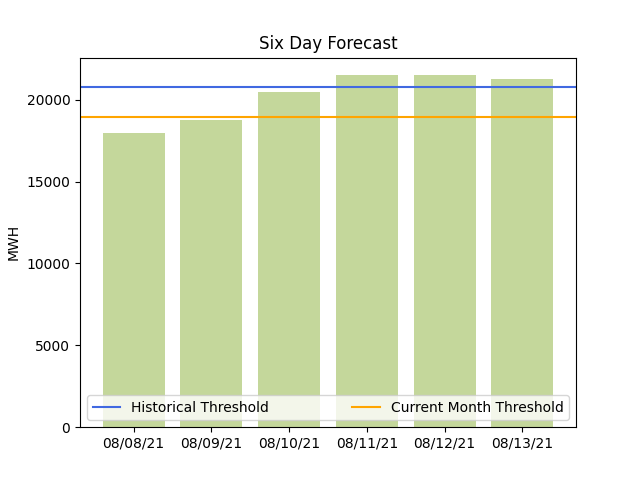
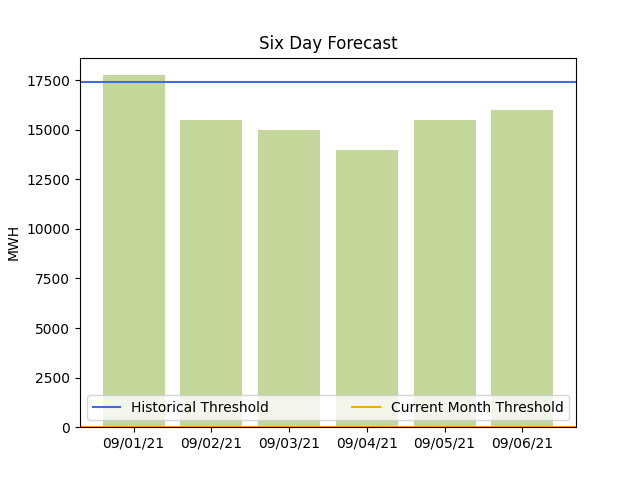
most recent changes

diff --git a/threeDay/threeDayForecast.py b/threeDay/threeDayForecast.py
@@ -12,6 +12,7 @@ from mongoConnect import get_monthly_historical_data
 
 requests.packages.urllib3.disable_warnings(InsecureRequestWarning)
 
+
 def retrieve_data():
     three_day_api = (
         "https://www.iso-ne.com/ws/wsclient?_ns_requestType=threedayforecast"
@@ -23,6 +24,7 @@ def retrieve_data():
     )
     json_data = response.json()
     return json_data[0]["data"]
+
 
 def retrieve_actual_data(api_date):
     actual_data_api = "https://webservices.iso-ne.com/api/v1.1/hourlysysload/day/{}/location/32".format(
@@ -38,10 +40,12 @@ def retrieve_actual_data(api_date):
 
     return xml_dict["HourlySystemLoads"]["HourlySystemLoad"]
 
+
 def get_six_day():
     d = datetime.date.today()
     api_date = "{}{:02d}{:02d}".format(d.year, d.month, d.day)
-    six_day_api = "https://webservices.iso-ne.com/api/v1.1/sevendayforecast/day/{}".format(api_date)
+    six_day_api = "https://webservices.iso-ne.com/api/v1.1/sevendayforecast/day/{}".format(
+        api_date)
     response = requests.get(
         six_day_api,
         auth=HTTPBasicAuth("info.rmsolutionss@gmail.com", "JeffKramer1"),
@@ -54,6 +58,8 @@ def get_six_day():
     return [int(parsed_dict[i]["PeakLoadMw"]) for i in range(len(parsed_dict))]
 
 # Foramt the data in a way that each hour of each day displays the correct Mw
+
+
 def parse_data(data):
     days = ["day1", "day2", "day3"]
     graph_data = [[], [], []]
@@ -106,10 +112,6 @@ def format_data(data):
             22,
             23,
             24
-            # 'Hour 01', 'Hour 02', 'Hour 03', 'Hour 04', 'Hour 05', 'Hour 06',
-            # 'Hour 07', 'Hour 08', 'Hour 09', 'Hour 10', 'Hour 11', 'Hour 12',
-            # 'Hour 13', 'Hour 14', 'Hour 15', 'Hour 16', 'Hour 17', 'Hour 18',
-            # 'Hour 19', 'Hour 20', 'Hour 21', 'Hour 22', 'Hour 23', 'Hour 24'
         ],
         index=[days],
     )
@@ -149,13 +151,13 @@ def create_line_chart(df, threshold_1, threshold_2):
             24,
         ]
     )
-    plt.legend(title= "Days", loc= 3)
+    plt.legend(title="Days", loc=3)
     plt.axhline(y=threshold_1, color='red')
     plt.axhline(y=threshold_2, color='black')
     plt.xlabel("Hour End")
     plt.ylabel("MWh")
     plt.title("Three Day Forecast")
-    plt.savefig("./threeDay/figure.png")
+    plt.savefig("figure.png")
     plt.close()
 
 
@@ -182,8 +184,9 @@ def create_pie_chart(data):
     month = month.strftime("%B")
     plt.title(month + "'s Year Historical Peak Hour")
     plt.axis("equal")
-    plt.savefig("./threeDay/figure2.png")
+    plt.savefig("figure2.png")
     plt.close()
+
 
 def create_bar_chart(threshold1, threshold2):
     peak_loads = get_six_day()
@@ -208,11 +211,14 @@ def create_bar_chart(threshold1, threshold2):
     # plt.grid(color='#95a5a6', linestyle='solid', linewidth=1, axis='y')
     plt.title("Six Day Forecast")
     plt.ylabel("MWH")
-    plt.axhline(y=threshold1, color='royalblue', lw=1.5, label="Historical Threshold")
-    plt.axhline(y=threshold2, color='orange', lw=1.5, label="Current Month Threshold")
-    plt.legend(loc='lower left', mode='expand', ncol= 3)
-    plt.savefig("./threeDay/figure3.png")
+    plt.axhline(y=threshold1, color='royalblue',
+                lw=1.5, label="Historical Threshold")
+    plt.axhline(y=threshold2, color='orange', lw=1.5,
+                label="Current Month Threshold")
+    plt.legend(loc='lower left', mode='expand', ncol=3)
+    plt.savefig("figure3.png")
     plt.close()
+
 
 def get_peak_data(data):
 
@@ -243,6 +249,7 @@ def current_month_threshold():
         return 0
 
     return round(max(month_data) * .97)
+
 
 def alert_rating(peak, threshold):
     if threshold == 0:
@@ -280,6 +287,7 @@ def alert_rating(peak, threshold):
 
     return rating, decision, color
 
+
 # sourcery skip: ensure-file-closed
 if __name__ == "__main__":
     data = retrieve_data()
@@ -289,7 +297,6 @@ if __name__ == "__main__":
     open_file = open(file_name, "wb")
     pickle.dump(graph_data[0], open_file)
     open_file.close()
-
 
     table_df = format_data(table_data)
     graph_df = format_data(graph_data)
@@ -301,6 +308,11 @@ if __name__ == "__main__":
     pie_data, threshold = get_monthly_historical_data()
     historical_threshold = np.percentile(threshold, 75)
     monthly_threshold = current_month_threshold()
+
+    if historical_threshold > monthly_threshold:
+        alert_threshold = historical_threshold
+    else:
+        alert_threshold = monthly_threshold
 
     pie_data.sort()
     pie_dict = {i: pie_data.count(i) for i in pie_data}
@@ -317,7 +329,7 @@ if __name__ == "__main__":
     tomorrow = tomorrow.strftime("%m/%d/%y")
     third_day = third_day.strftime("%m/%d/%y")
 
-    rating, decision, color = alert_rating(peak_1, historical_threshold)
+    rating, decision, color = alert_rating(peak_1, alert_threshold)
 
     body = """\
     <html>
@@ -464,6 +476,6 @@ if __name__ == "__main__":
         tomorrow,
         third_day,
         color
-        
+
     )
     doMail.send_mail(body)

diff --git a/threeDay/doMail.py b/threeDay/doMail.py
@@ -4,13 +4,13 @@ from email.mime.text import MIMEText
 from email.mime.multipart import MIMEMultipart
 
 
-
 def send_mail(body):
     message = MIMEMultipart()
     message["Subject"] = "Three Day Forecast"
-    # message["From"] = "leldforecast@gmail.com"
     message["From"] = "leldforecast@gmail.com"
+    # message["From"] = "dev923757@gmail.com"
     message["To"] = "peakalert@lelwd.com"
+    # message["To"] = "dev923757@gmail.com"
 
     body_content = body
     message.attach(MIMEText(body_content, "html"))
@@ -18,21 +18,21 @@ def send_mail(body):
     msgAlternative = MIMEMultipart("alternative")
     message.attach(msgAlternative)
 
-    fp = open("./threeDay/figure.png", "rb")
+    fp = open("figure.png", "rb")
     msgImage = MIMEImage(fp.read())
     fp.close()
 
     msgImage.add_header("Content-ID", "<image1>")
     message.attach(msgImage)
 
-    fp2 = open("./threeDay/figure2.png", "rb")
+    fp2 = open("figure2.png", "rb")
     msgImage2 = MIMEImage(fp2.read())
     fp2.close()
 
     msgImage2.add_header("Content-ID", "<image2>")
     message.attach(msgImage2)
 
-    fp3 = open("./threeDay/figure3.png", "rb")
+    fp3 = open("figure3.png", "rb")
     msgImage3 = MIMEImage(fp3.read())
     fp3.close()
 
@@ -43,8 +43,8 @@ def send_mail(body):
 
     server = SMTP("smtp.gmail.com", 587)
     server.starttls()
-    server.login(message["From"], "Develop123")
-    # server.login(message["From"], "@39Ayerrd")
-    # server.login(message["From"], "Mwpmatt12")
+    # server.login(message["From"], "Develop123")
+    server.login(message["From"], "@39Ayerrd")
+
     server.sendmail(message["From"], message["To"], msg_body)
     server.quit()

diff --git a/alertSystem/realTimeAlert.py b/alertSystem/realTimeAlert.py
@@ -6,8 +6,8 @@ import datetime
 import doAlert
 
 
-
 requests.packages.urllib3.disable_warnings(InsecureRequestWarning)
+
 
 def get_real_time_load():
     real_time_api = "https://webservices.iso-ne.com/api/v1.1/fiveminutesystemload/current"
@@ -22,10 +22,12 @@ def get_real_time_load():
 
     return xml_dict["FiveMinSystemLoad"]["NativeLoad"]
 
+
 def get_forecast_load():
     d = datetime.date.today()
     api_date = "{}{:02d}{:02d}".format(d.year, d.month, d.day)
-    forecast_api = "https://webservices.iso-ne.com/api/v1.1/hourlyloadforecast/day/{}".format(api_date)
+    forecast_api = "https://webservices.iso-ne.com/api/v1.1/hourlyloadforecast/day/{}".format(
+        api_date)
     response = requests.get(
         forecast_api,
         auth=HTTPBasicAuth("info.rmsolutionss@gmail.com", "JeffKramer1"),
@@ -39,13 +41,14 @@ def get_forecast_load():
 
     return xml_dict["HourlyLoadForecasts"]["HourlyLoadForecast"][time]["LoadMw"]
 
+
 def send_alert(real_load, forecasted_load):
     alert = False
-    if real_load - forecasted_load > 0:
+    if real_load - forecasted_load > 1000:
         alert = True
-    
+
     return alert
-    
+
 
 if __name__ == "__main__":
     real_time_load = round(float(get_real_time_load()))
@@ -54,7 +57,7 @@ if __name__ == "__main__":
     alert = send_alert(real_time_load, forecasted_load)
 
     if alert:
-        load_alert =  real_time_load - forecasted_load
+        load_alert = real_time_load - forecasted_load
         body = """\
         <html>
             <head>

diff --git a/alertSystem/doAlert.py b/alertSystem/doAlert.py
@@ -4,13 +4,13 @@ from email.mime.text import MIMEText
 from email.mime.multipart import MIMEMultipart
 
 
-
 def send_alert(body, subject):
     message = MIMEMultipart()
     message["Subject"] = subject
     # message["From"] = "leldforecast@gmail.com"
     message["From"] = "leldforecast@gmail.com"
-    message["To"] = "dev923757@gmail.com"
+    # message["To"] = "dev923757@gmail.com"
+    message["To"] = "plaverty@lelwd.com"
 
     body_content = body
     message.attach(MIMEText(body_content, "html"))
@@ -22,8 +22,8 @@ def send_alert(body, subject):
 
     server = SMTP("smtp.gmail.com", 587)
     server.starttls()
-    server.login(message["From"], "Develop123")
-    # server.login(message["From"], "@39Ayerrd")
+    # server.login(message["From"], "Develop123")
+    server.login(message["From"], "@39Ayerrd")
     # server.login(message["From"], "Mwpmatt12")
     server.sendmail(message["From"], message["To"], msg_body)
     server.quit()
